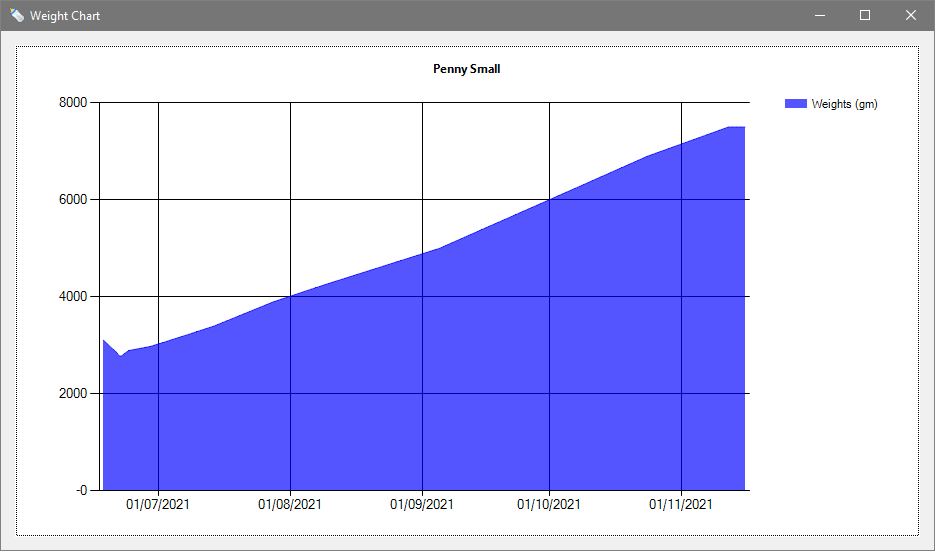
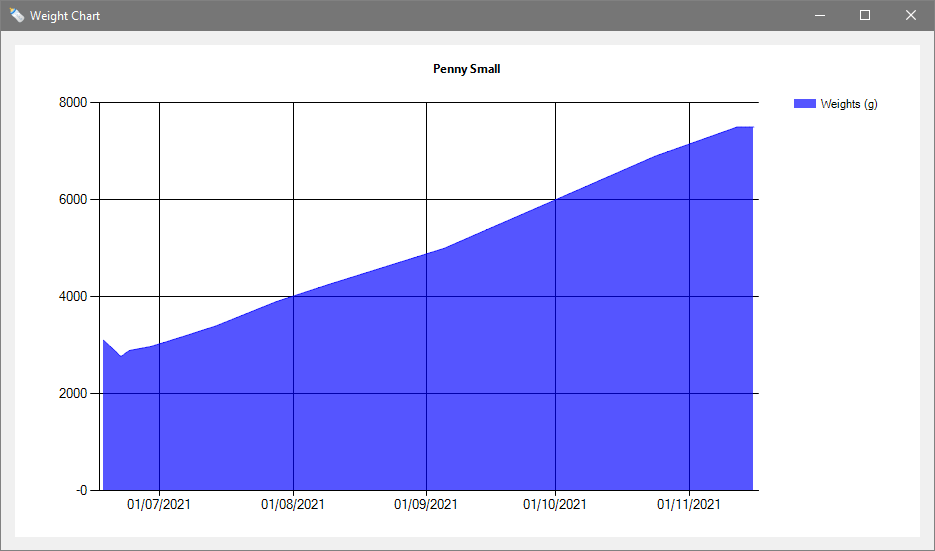
Made further tweaks to README

diff --git a/FeedSleepRepeatUI/WeightChart.cs b/FeedSleepRepeatUI/WeightChart.cs
@@ -37,15 +37,15 @@ namespace FeedSleepRepeatUI
                     weight = Convert.ToDouble(day.Weight);
                 }
 
-                weightsChart.Series["Weights (gm)"].Points.AddXY(date, weight);
+                weightsChart.Series["Weights (g)"].Points.AddXY(date, weight);
             }
         }
 
         private void SetStyle()
         {
-            weightsChart.Series["Weights (gm)"].Color = Color.FromArgb(170, Color.Blue);
-            weightsChart.Series["Weights (gm)"].EmptyPointStyle.Color = Color.FromArgb(170, Color.Blue);
-            weightsChart.Series["Weights (gm)"].CustomProperties = "EmptyPointValue = Average";
+            weightsChart.Series["Weights (g)"].Color = Color.FromArgb(170, Color.Blue);
+            weightsChart.Series["Weights (g)"].EmptyPointStyle.Color = Color.FromArgb(170, Color.Blue);
+            weightsChart.Series["Weights (g)"].CustomProperties = "EmptyPointValue = Average";
         }
 
         private void SetChartIconAndTitle()

diff --git a/FeedSleepRepeatUI/WeightChart.Designer.cs b/FeedSleepRepeatUI/WeightChart.Designer.cs
@@ -51,7 +51,7 @@ namespace FeedSleepRepeatUI
             series1.EmptyPointStyle.BorderDashStyle = System.Windows.Forms.DataVisualization.Charting.ChartDashStyle.NotSet;
             series1.Font = new System.Drawing.Font("Segoe UI", 8.25F, System.Drawing.FontStyle.Regular, System.Drawing.GraphicsUnit.Point, ((byte)(0)));
             series1.Legend = "Legend1";
-            series1.Name = "Weights (gm)";
+            series1.Name = "Weights (g)";
             series1.YValuesPerPoint = 2;
             this.weightsChart.Series.Add(series1);
             this.weightsChart.Size = new System.Drawing.Size(776, 426);

diff --git a/README.md b/README.md
@@ -82,7 +82,7 @@ You'll see a summary of the details you entered in the large list box at the bot
 Sleep start and end times are added in the same way. And the location is recorded in the *Place* field before clicking the 
 *Add Sleep* button.
 
-![Feed Sleep Repeat's main screen with one feed activity added](docs/addsleep.png)
+![Feed Sleep Repeat's main screen with one feed activity and one sleep activity added](docs/addsleep.png)
 
 Feed and sleep activities are automatically sorted in start time order. So, if you forget to add
 an activity and enter it later, it will be slotted into the right place.
